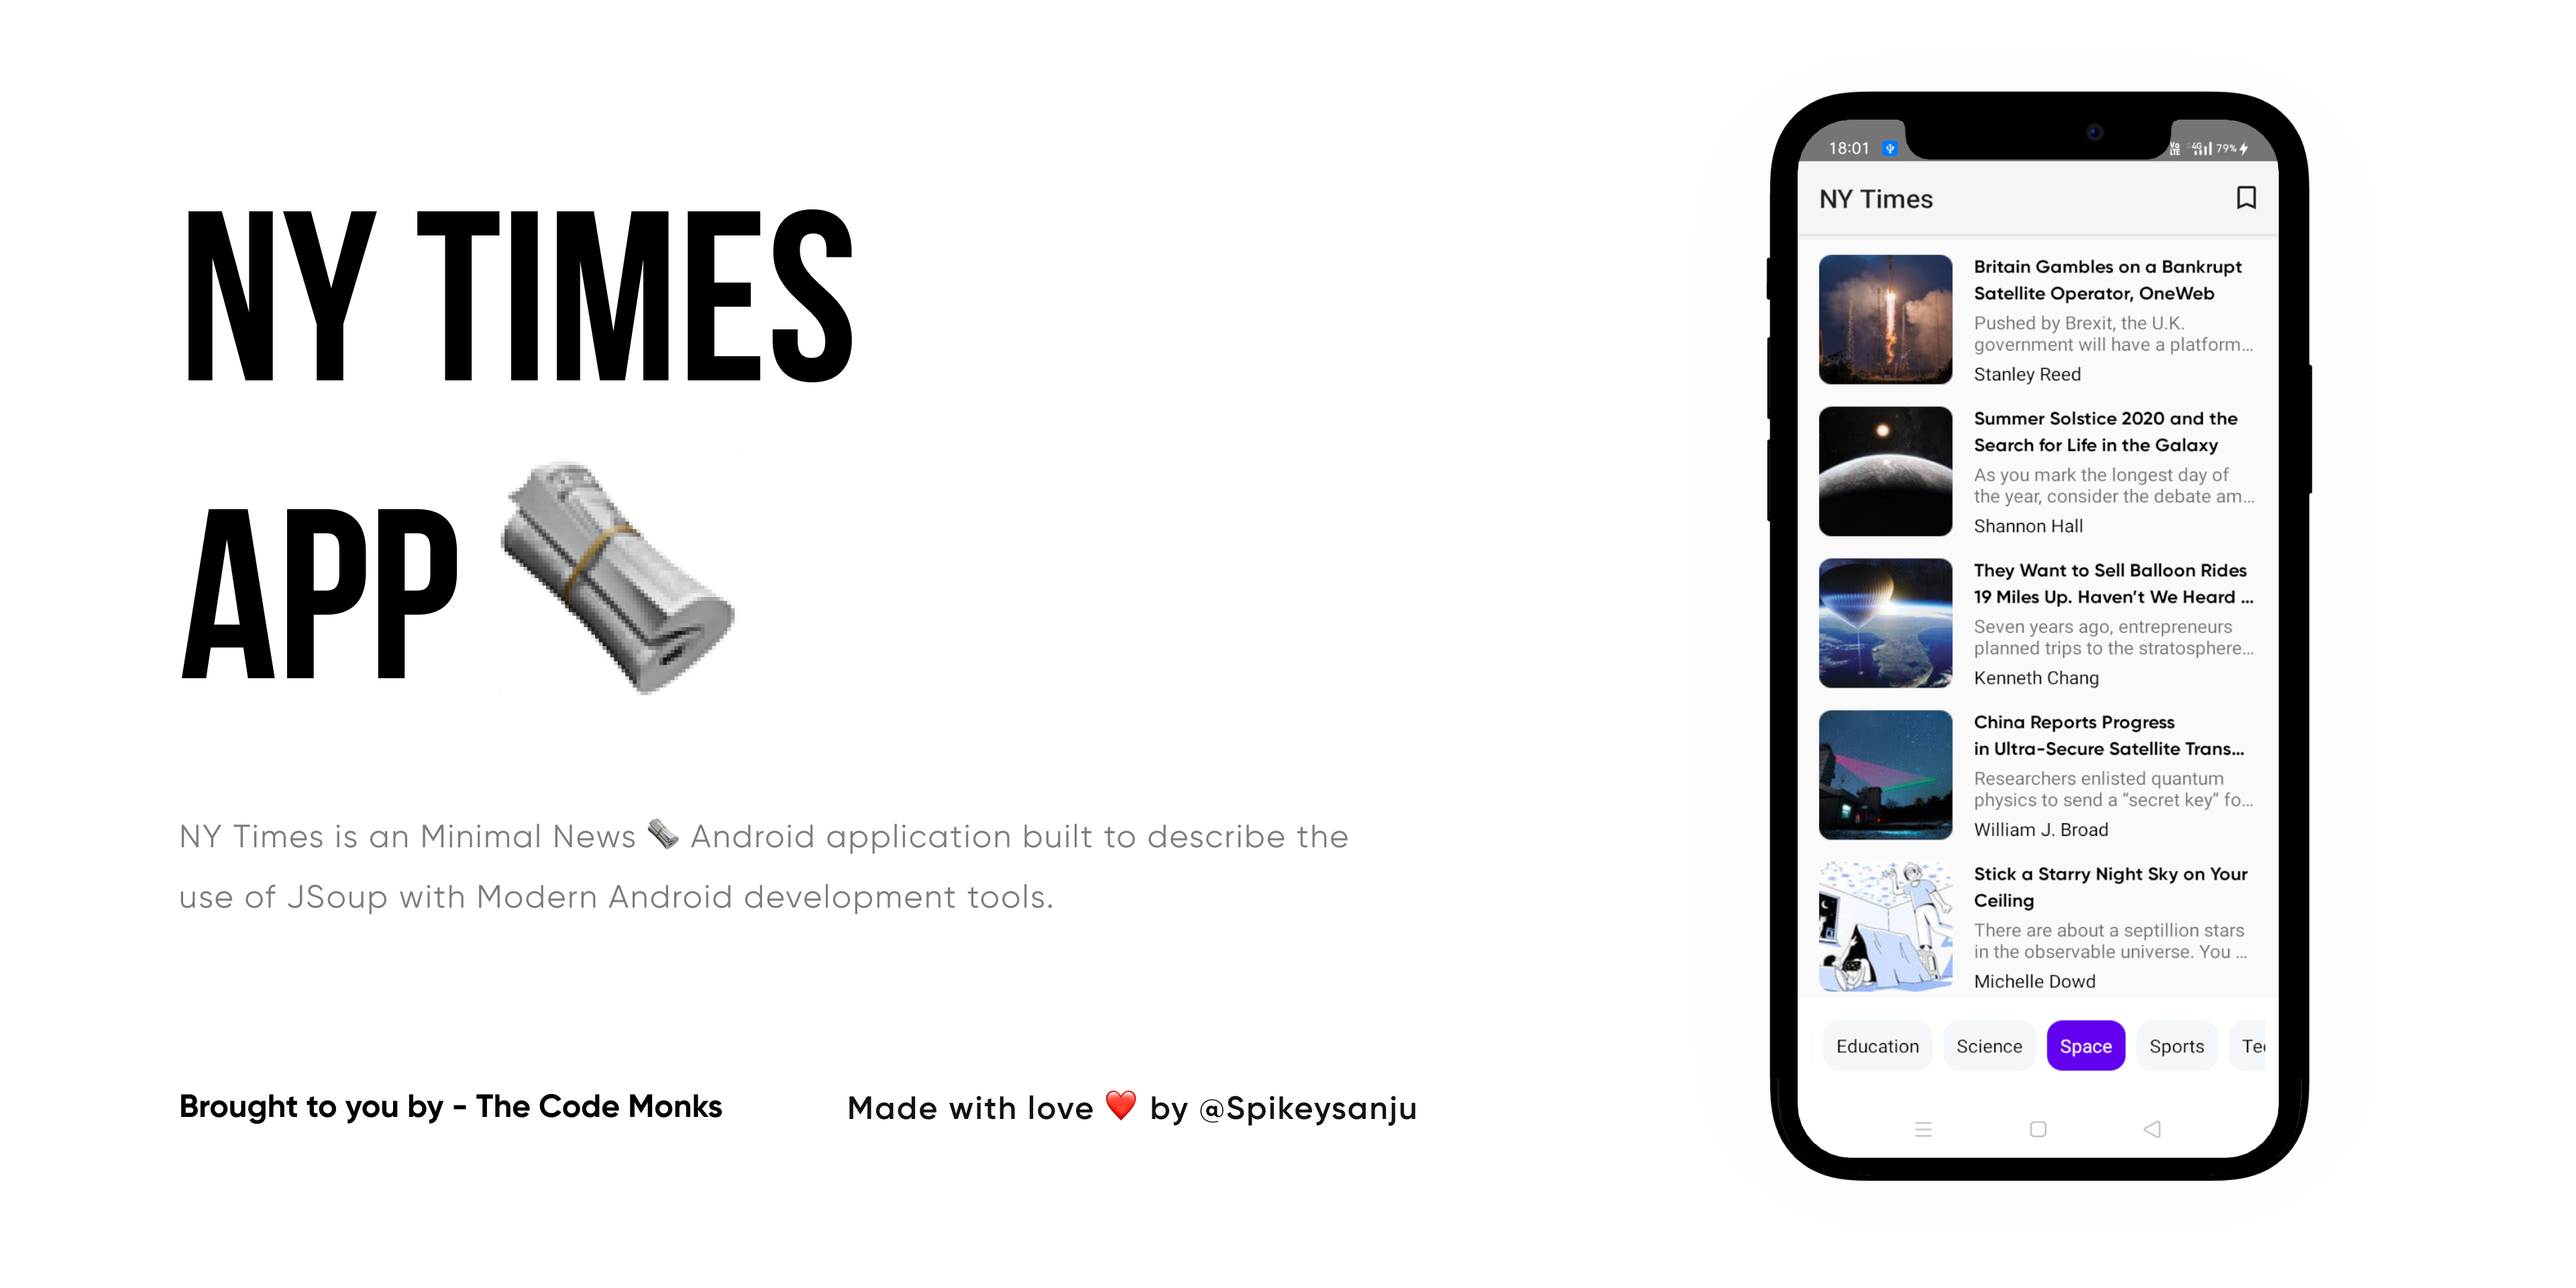
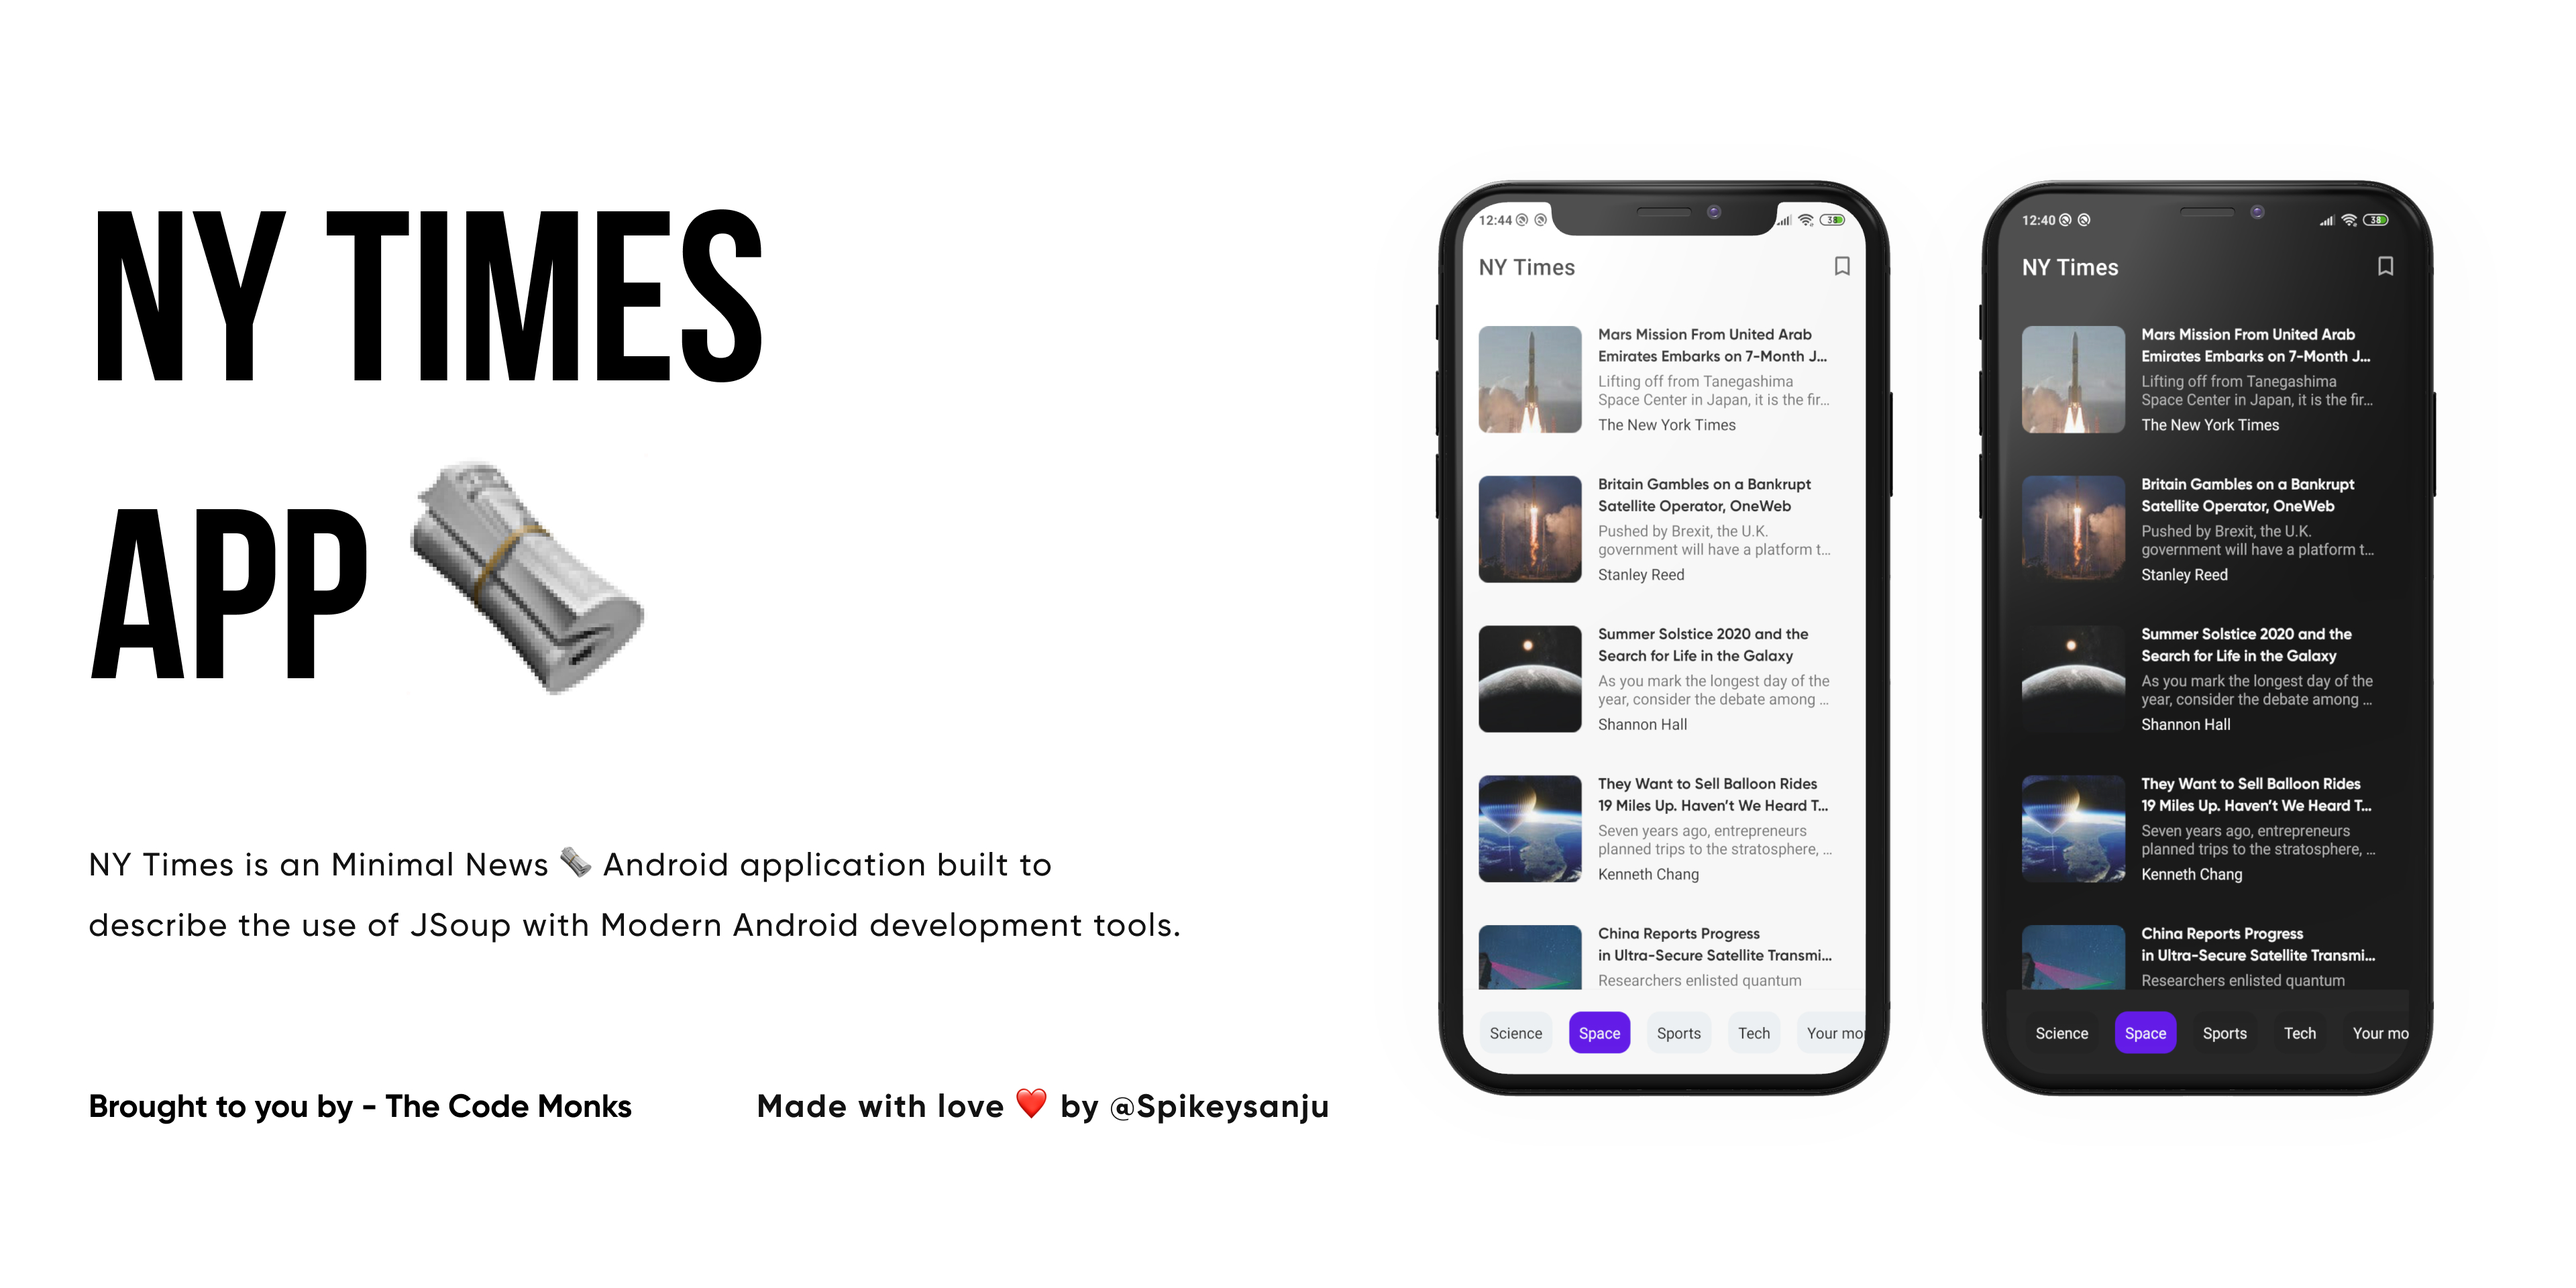
📸 Updated screenshots & art

diff --git a/app/src/main/java/www/thecodemonks/techbytes/NYTimes.kt b/app/src/main/java/www/thecodemonks/techbytes/NYTimes.kt
@@ -39,7 +39,7 @@ class NYTimes : Application() {
         val mode = if (isNight()) {
             AppCompatDelegate.MODE_NIGHT_YES
         } else {
-            AppCompatDelegate.MODE_NIGHT_YES
+            AppCompatDelegate.MODE_NIGHT_NO
         }
 
         AppCompatDelegate.setDefaultNightMode(mode)
